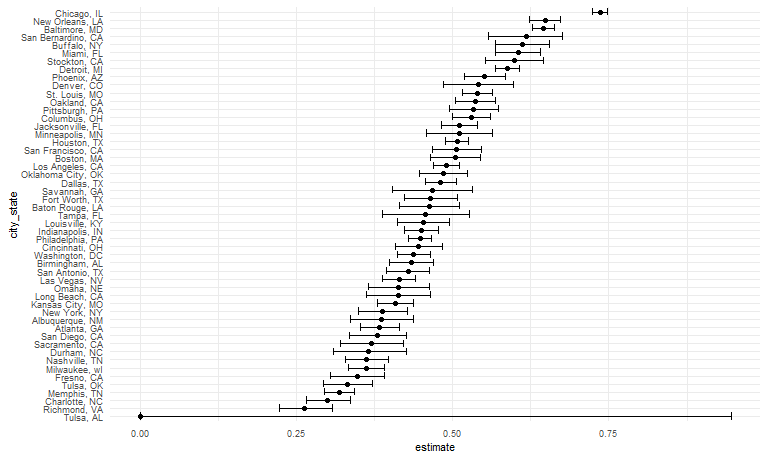
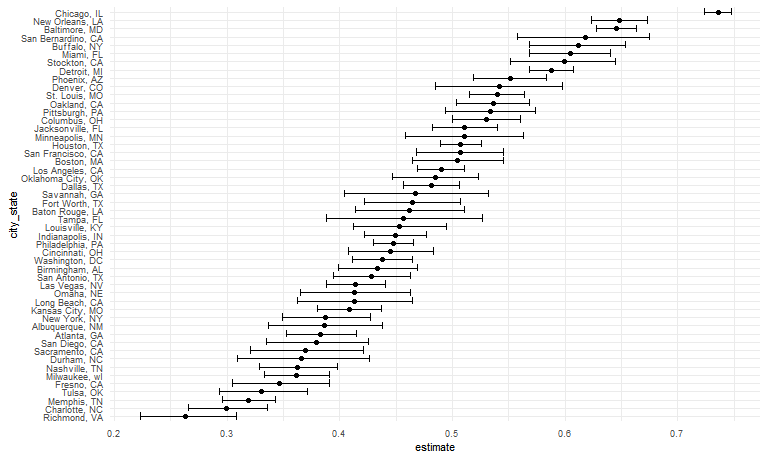
filter "Tulsa, AL"

diff --git a/p8105_hw5_sm5592.md b/p8105_hw5_sm5592.md
@@ -1,7 +1,7 @@
 Homework 5
 ================
 Shaolei Ma
-2023-11-06
+2023-11-14
 
 # Problem 1
 
@@ -22,7 +22,8 @@ Then, do some data cleaning and analysis.
 homicide_df = 
   homicide_df |> 
   janitor::clean_names() |> 
-  mutate(city_state = str_c(city, ", ", state))
+  mutate(city_state = str_c(city, ", ", state)) |> 
+  filter(city_state != "Tulsa, AL")
 
 homicide_city_df = 
   homicide_df |> 
@@ -45,7 +46,7 @@ homicide_city_df |>
 | Birmingham, AL  |          800 |          347 |
 | Boston, MA      |          614 |          310 |
 
-Then, the total number of homicides is 52179, and the total number of
+Then, the total number of homicides is 52178, and the total number of
 unsolved homicides is 26505.
 
 For the city of Baltimore, MD:
@@ -84,14 +85,7 @@ unsolved_prop_df =
   homicide_city_df |> 
   mutate(prop_estimate = map2(unsolved_num, homicide_num, prop_tidy)) |> 
   unnest(prop_estimate)
-```
 
-    ## Warning: There was 1 warning in `mutate()`.
-    ## ℹ In argument: `prop_estimate = map2(unsolved_num, homicide_num, prop_tidy)`.
-    ## Caused by warning in `prop.test()`:
-    ## ! Chi-squared approximation may be incorrect
-
-``` r
 unsolved_prop_df |> 
   head() |> 
   knitr::kable(digits = 3)
@@ -120,9 +114,9 @@ unsolved_prop_df |>
 
 <img src="p8105_hw5_sm5592_files/figure-gfm/unnamed-chunk-5-1.png" width="90%" />
 
-As illustrated in the plot, Tulsa has the lowest estimate and the widest
-confidence interval, while Chicago has the highest estimate and the most
-narrow confidence interval.
+As illustrated in the plot, Richmond has the lowest estimate, while
+Chicago has the highest estimate and the most narrow confidence
+interval.
 
 # Problem 2
 
@@ -190,12 +184,12 @@ sim_results_df |>
 
 |  mu | iter | estimate | p.value |
 |----:|-----:|---------:|--------:|
-|   0 |    1 |   -0.539 |   0.568 |
-|   0 |    2 |    0.927 |   0.416 |
-|   0 |    3 |   -0.194 |   0.852 |
-|   0 |    4 |    0.902 |   0.360 |
-|   0 |    5 |   -0.275 |   0.799 |
-|   0 |    6 |   -0.364 |   0.686 |
+|   0 |    1 |    0.090 |   0.922 |
+|   0 |    2 |   -0.913 |   0.298 |
+|   0 |    3 |    0.600 |   0.484 |
+|   0 |    4 |   -0.415 |   0.569 |
+|   0 |    5 |    1.490 |   0.124 |
+|   0 |    6 |    0.099 |   0.926 |
 
 For $\mu={1,2,3,4,5,6}$:
 
